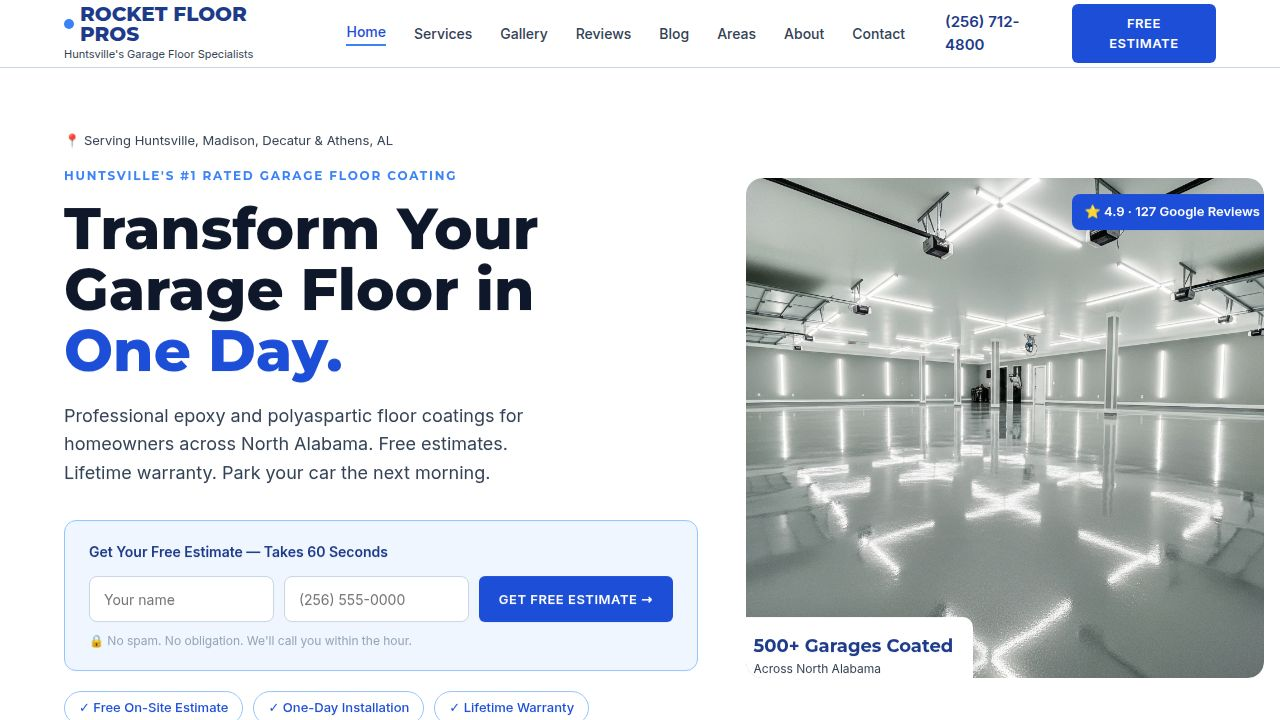
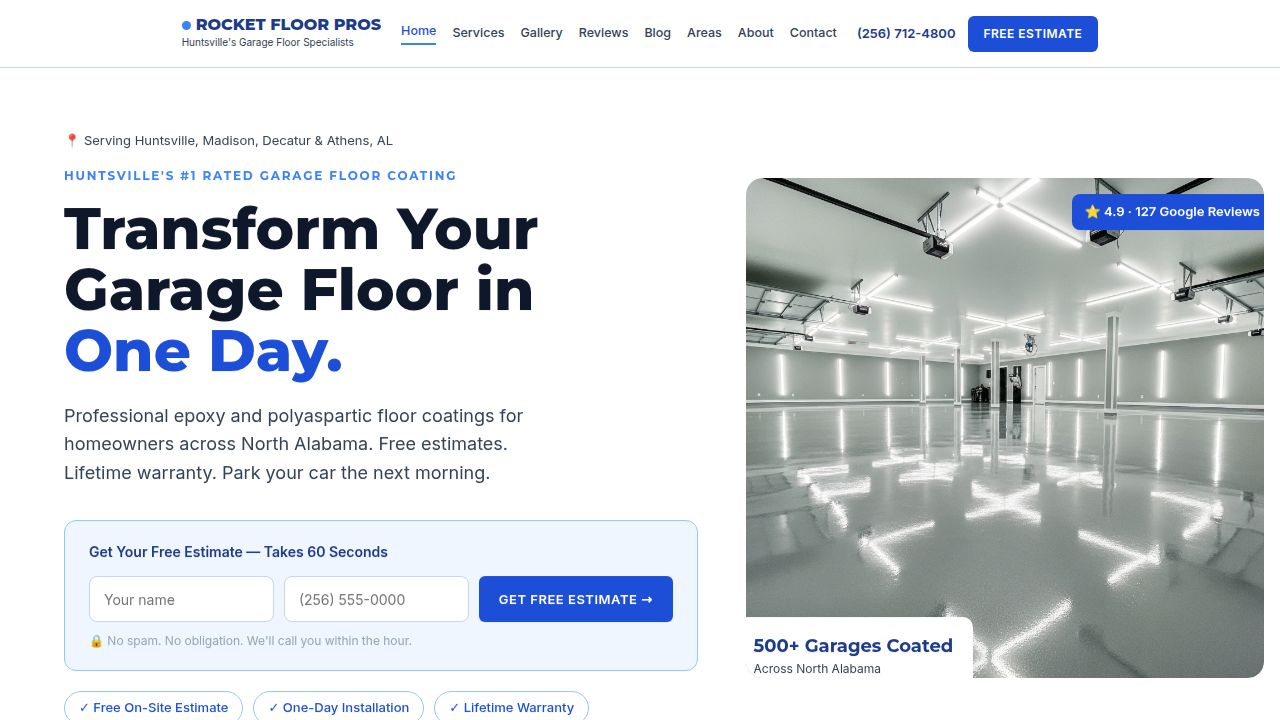
Optimize map image size and integrate it across site pages
Compresses map image, adds it to about and contact pages, restructures contact form to a two-column layout, and adjusts header CSS to prevent element wrapping.

Replit-Commit-Author: Agent
Replit-Commit-Session-Id: c9b042c9-1ee2-4ff2-acc5-d99b70efd312
Replit-Commit-Checkpoint-Type: full_checkpoint
Replit-Commit-Event-Id: 3c50ad06-367e-4945-99c3-af09d56a47ed
Replit-Commit-Screenshot-Url: https://storage.googleapis.com/screenshot-production-us-central1/6a8c6e70-96ce-429c-8a59-3d1d744f47a2/c9b042c9-1ee2-4ff2-acc5-d99b70efd312/UBp0qCA
Replit-Helium-Checkpoint-Created: true

Changed region(s): [[0.0625, 0.0, 0.9688, 0.0917]]

diff --git a/artifacts/rocket-floor-pros/public/contact.html b/artifacts/rocket-floor-pros/public/contact.html
@@ -109,11 +109,10 @@
           </div>
         </div>
 
-        <div class="map-placeholder" style="margin-top: 32px;">
-          <div class="map-icon">🗺</div>
-          <p>[MAP PLACEHOLDER]<br>Replace with Google Maps embed<br><br>
-          Go to maps.google.com → share → embed a map</p>
-        </div>
+        <img src="images/north-alabama-map.jpg"
+             alt="Areas We Serve in North Alabama — Huntsville, Madison, Decatur, Athens and surrounding communities"
+             style="width: 100%; border-radius: 16px; display: block; margin-top: 32px; box-shadow: 0 8px 32px rgba(0,0,0,0.12);"
+             loading="lazy">
       </div>
 
       <!-- Right: Contact Form -->
@@ -131,52 +130,56 @@
           <p class="form-card-sub">We'll contact you within 1 hour · Mon–Sat 7am–6pm</p>
           <form id="contact-form" action="https://formspree.io/f/xpwqrjkl" method="POST">
             <input type="hidden" name="_subject" value="Contact Page Lead - Rocket Floor Pros">
-            <div class="form-group">
-              <label class="form-label" for="c-name">First Name *</label>
-              <input class="form-input" type="text" id="c-name" name="name" placeholder="Your first name" required>
+            <div class="form-inline-row">
+              <div class="form-group">
+                <label class="form-label" for="c-name">First Name *</label>
+                <input class="form-input" type="text" id="c-name" name="name" placeholder="First name" required>
+              </div>
+              <div class="form-group">
+                <label class="form-label" for="c-phone">Phone *</label>
+                <input class="form-input" type="tel" id="c-phone" name="phone" placeholder="(256) 555-0000" required>
+              </div>
             </div>
-            <div class="form-group">
-              <label class="form-label" for="c-phone">Phone Number *</label>
-              <input class="form-input" type="tel" id="c-phone" name="phone" placeholder="(256) 555-0000" required>
-              <div class="form-helper">We'll call or text — whichever you prefer</div>
+            <div class="form-inline-row">
+              <div class="form-group">
+                <label class="form-label" for="c-email">Email</label>
+                <input class="form-input" type="email" id="c-email" name="email" placeholder="your@email.com">
+              </div>
+              <div class="form-group">
+                <label class="form-label" for="c-address">Property Address *</label>
+                <input class="form-input" type="text" id="c-address" name="address" placeholder="Street address, City" required>
+              </div>
             </div>
-            <div class="form-group">
-              <label class="form-label" for="c-email">Email Address</label>
-              <input class="form-input" type="email" id="c-email" name="email" placeholder="your@email.com">
-              <div class="form-helper">Optional — for estimate confirmation</div>
-            </div>
-            <div class="form-group">
-              <label class="form-label" for="c-address">Property Address *</label>
-              <input class="form-input" type="text" id="c-address" name="address" placeholder="Street address, City" required>
-            </div>
-            <div class="form-group">
-              <label class="form-label" for="c-project-type">Type of Project *</label>
-              <select class="form-select" id="c-project-type" name="project_type" required>
-                <option value="">Select your project type…</option>
-                <option value="garage-1car">Garage Floor (1-car) · ~200 sq ft</option>
-                <option value="garage-2car">Garage Floor (2-car) · ~400 sq ft</option>
-                <option value="garage-3car">Garage Floor (3-car or larger) · 600+ sq ft</option>
-                <option value="patio">Patio or Walkway</option>
-                <option value="basement">Basement Floor</option>
-                <option value="commercial">Commercial or Warehouse</option>
-                <option value="other">Other / Not Sure</option>
-              </select>
-            </div>
-            <div class="form-group">
-              <label class="form-label" for="c-timeline">Timeline *</label>
-              <select class="form-select" id="c-timeline" name="timeline" required>
-                <option value="">How soon are you looking to start?</option>
-                <option value="asap">As soon as possible</option>
-                <option value="month">Within the next month</option>
-                <option value="1-3months">1–3 months out</option>
-                <option value="researching">Just researching for now</option>
-              </select>
+            <div class="form-inline-row">
+              <div class="form-group">
+                <label class="form-label" for="c-project-type">Project Type *</label>
+                <select class="form-select" id="c-project-type" name="project_type" required>
+                  <option value="">Select type…</option>
+                  <option value="garage-1car">1-Car Garage (~200 sq ft)</option>
+                  <option value="garage-2car">2-Car Garage (~400 sq ft)</option>
+                  <option value="garage-3car">3-Car+ Garage (600+ sq ft)</option>
+                  <option value="patio">Patio or Walkway</option>
+                  <option value="basement">Basement Floor</option>
+                  <option value="commercial">Commercial or Warehouse</option>
+                  <option value="other">Other / Not Sure</option>
+                </select>
+              </div>
+              <div class="form-group">
+                <label class="form-label" for="c-timeline">Timeline *</label>
+                <select class="form-select" id="c-timeline" name="timeline" required>
+                  <option value="">How soon?</option>
+                  <option value="asap">As soon as possible</option>
+                  <option value="month">Within the next month</option>
+                  <option value="1-3months">1–3 months out</option>
+                  <option value="researching">Just researching</option>
+                </select>
+              </div>
             </div>
             <div class="form-group">
               <label class="form-label" for="c-message">Additional Notes</label>
-              <textarea class="form-input form-textarea" id="c-message" name="message" placeholder="Any questions or special notes about your project…"></textarea>
+              <textarea class="form-input form-textarea" id="c-message" name="message" placeholder="Any questions or special notes about your project…" style="height: 90px;"></textarea>
             </div>
-            <button type="submit" class="btn btn-full" style="height:56px; font-family:'Montserrat',sans-serif; font-size:17px; border-radius:8px;">
+            <button type="submit" class="btn btn-full" style="height:52px; font-family:'Montserrat',sans-serif; font-size:16px; border-radius:8px;">
               SEND MY FREE ESTIMATE REQUEST →
             </button>
             <p class="form-submit-note">🔒 Your information is 100% private and never sold.</p>

diff --git a/artifacts/rocket-floor-pros/public/styles.css b/artifacts/rocket-floor-pros/public/styles.css
@@ -200,29 +200,31 @@ body {
   align-items: center;
   justify-content: flex-start;
   width: 100%;
-  gap: 40px;
+  gap: 20px;
 }
 
 .logo {
   display: flex;
   flex-direction: column;
   text-decoration: none;
+  flex-shrink: 0;
 }
 
 .logo-name {
   display: flex;
   align-items: center;
-  gap: 6px;
+  gap: 5px;
   font-family: 'Montserrat', sans-serif;
   font-weight: 800;
-  font-size: 20px;
+  font-size: 16px;
   color: var(--blue-900);
   line-height: 1;
+  white-space: nowrap;
 }
 
 .logo-dot {
-  width: 10px;
-  height: 10px;
+  width: 9px;
+  height: 9px;
   border-radius: 50%;
   background: var(--blue-500);
   display: inline-block;
@@ -232,24 +234,26 @@ body {
 .logo-tagline {
   font-family: 'Inter', sans-serif;
   font-weight: 400;
-  font-size: 11px;
+  font-size: 10px;
   color: var(--gray-700);
   margin-top: 2px;
+  white-space: nowrap;
 }
 
 .main-nav {
   display: flex;
   align-items: center;
-  gap: 28px;
+  gap: 16px;
 }
 
 .main-nav a {
   font-family: 'Inter', sans-serif;
   font-weight: 500;
-  font-size: 14px;
+  font-size: 12.5px;
   color: var(--gray-700);
   text-decoration: none;
   transition: color 0.2s;
+  white-space: nowrap;
 }
 
 .main-nav a:hover,
@@ -265,21 +269,24 @@ body {
 .header-right {
   display: flex;
   align-items: center;
-  gap: 16px;
+  gap: 12px;
   margin-left: auto;
+  flex-shrink: 0;
 }
 
 .header-phone {
   font-family: 'Inter', sans-serif;
   font-weight: 600;
-  font-size: 15px;
+  font-size: 13px;
   color: var(--blue-900);
   text-decoration: none;
+  white-space: nowrap;
 }
 
 .header-cta {
-  padding: 10px 20px;
-  font-size: 13px;
+  padding: 9px 16px;
+  font-size: 12px;
+  white-space: nowrap;
 }
 
 .hamburger {

diff --git a/artifacts/rocket-floor-pros/public/about.html b/artifacts/rocket-floor-pros/public/about.html
@@ -167,10 +167,10 @@
           <a href="tel:2567124800" class="area-phone">(256) 712-4800</a>
         </div>
         <div class="fade-in">
-          <div class="map-placeholder">
-            <div class="map-icon">🗺</div>
-            <p>[MAP PLACEHOLDER]<br>Replace with Google Maps embed</p>
-          </div>
+          <img src="images/north-alabama-map.jpg"
+               alt="Areas We Serve in North Alabama — Huntsville, Madison, Decatur, Athens and surrounding communities"
+               style="width: 100%; border-radius: 16px; display: block; box-shadow: 0 8px 32px rgba(0,0,0,0.12);"
+               loading="lazy">
         </div>
       </div>
     </div>

diff --git a/artifacts/rocket-floor-pros/public/index.html b/artifacts/rocket-floor-pros/public/index.html
@@ -566,7 +566,7 @@ Example: alt="Epoxy garage floor coating Madison Alabama 2-car garage"
           <a href="tel:2567124800" class="area-phone">(256) 712-4800</a>
         </div>
         <div class="fade-in">
-          <img src="images/north-alabama-map.png"
+          <img src="images/north-alabama-map.jpg"
                alt="Areas We Serve in North Alabama — Huntsville, Madison, Decatur, Athens and surrounding communities"
                style="width: 100%; border-radius: 16px; display: block; box-shadow: 0 8px 32px rgba(0,0,0,0.12);"
                loading="lazy">
